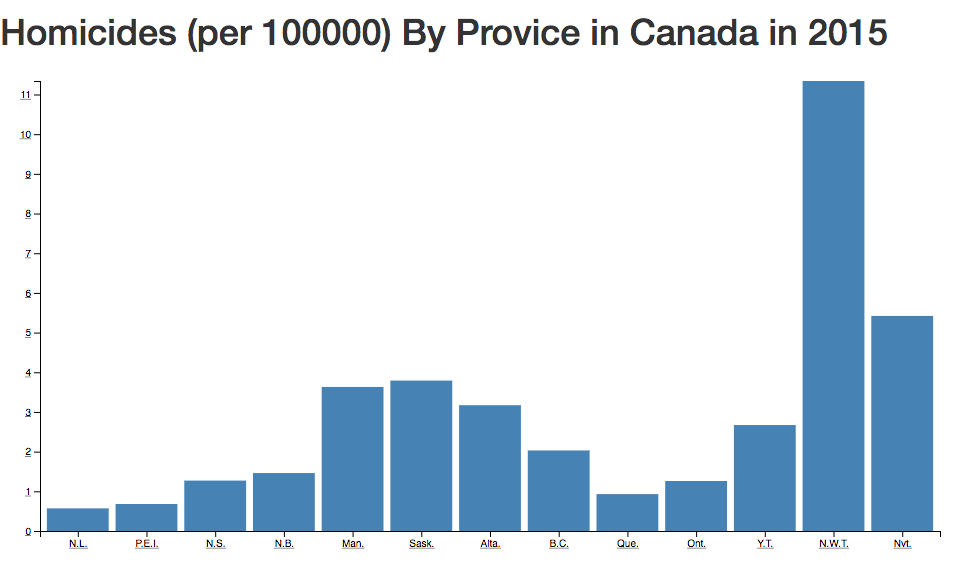
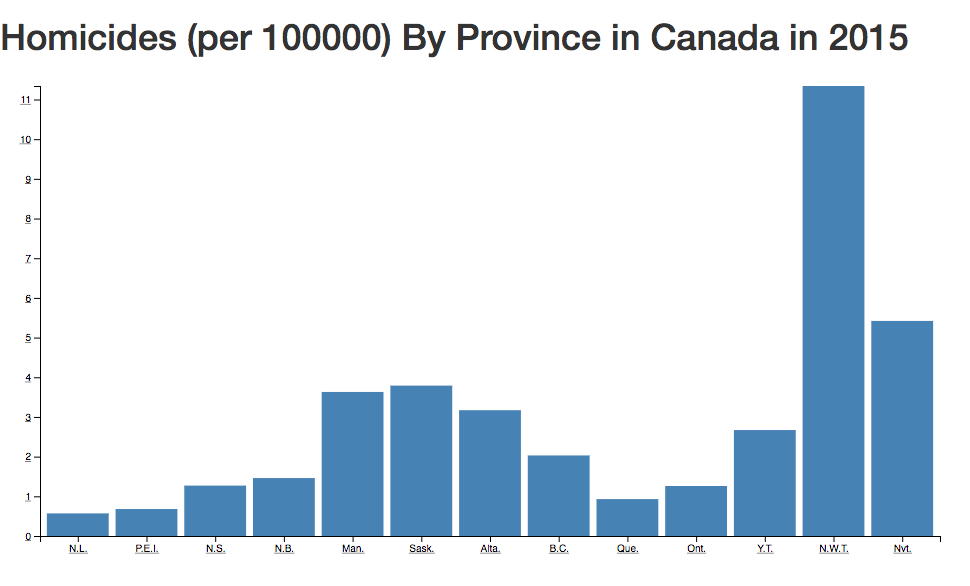
spelling error

diff --git a/main.js b/main.js
@@ -16,67 +16,67 @@ $(function(){
 
   /* For the Bar Chart */
 
-  function drawChart(){
-    // set the dimensions and margins of the graph
-    var margin = {top: 20, right: 20, bottom: 30, left: 40},
-        width = 960 - margin.left - margin.right,
-        height = 500 - margin.top - margin.bottom;
-
-    // set the ranges
-    var x = d3.scaleBand()
-              .range([0, width])
-              .padding(0.1);
-    var y = d3.scaleLinear()
-              .range([height, 0]);
-
-    // append the svg object to the body of the page
-    // append a 'group' element to 'svg'
-    // moves the 'group' element to the top left margin
-    var svg = d3.select("body").append("svg")
-        .attr("width", width + margin.left + margin.right)
-        .attr("height", height + margin.top + margin.bottom)
-        .attr("text-anchor", "middle")
-          .style("font-size", "16px")
-          .style("text-decoration", "underline")
-          .text("Value vs Date Graph")
-      .append("g")
-        .attr("transform",
-              "translate(" + margin.left + "," + margin.top + ")");
-
-    // get the data
-    d3.csv("2015/data.csv", function(error, data) {
-      if (error) throw error;
-
-      // format the data
-      data.forEach(function(d) {
-        d.Homicides = +d.Homicides;
-      });
-
-      // Scale the range of the data in the domains
-      x.domain(data.map(function(d) { return d.Province; }));
-      y.domain([0, d3.max(data, function(d) { return d.Homicides; })]);
-
-      // append the rectangles for the bar chart
-      svg.selectAll(".bar")
-          .data(data)
-        .enter().append("rect")
-          .attr("class", "bar")
-          .attr("x", function(d) { return x(d.Province); })
-          .attr("width", x.bandwidth())
-          .attr("y", function(d) { return y(d.Homicides); })
-          .attr("height", function(d) { return height - y(d.Homicides); });
-
-      // add the x Axis
-      svg.append("g")
-          .attr("transform", "translate(0," + height + ")")
-          .call(d3.axisBottom(x));
-
-      // add the y Axis
-      svg.append("g")
-          .call(d3.axisLeft(y));
-
-    });
-  }
+  // function drawChart(){
+  //   // set the dimensions and margins of the graph
+  //   var margin = {top: 20, right: 20, bottom: 30, left: 40},
+  //       width = 960 - margin.left - margin.right,
+  //       height = 500 - margin.top - margin.bottom;
+  //
+  //   // set the ranges
+  //   var x = d3.scaleBand()
+  //             .range([0, width])
+  //             .padding(0.1);
+  //   var y = d3.scaleLinear()
+  //             .range([height, 0]);
+  //
+  //   // append the svg object to the body of the page
+  //   // append a 'group' element to 'svg'
+  //   // moves the 'group' element to the top left margin
+  //   var svg = d3.select("body").append("svg")
+  //       .attr("width", width + margin.left + margin.right)
+  //       .attr("height", height + margin.top + margin.bottom)
+  //       .attr("text-anchor", "middle")
+  //         .style("font-size", "16px")
+  //         .style("text-decoration", "underline")
+  //         .text("Value vs Date Graph")
+  //     .append("g")
+  //       .attr("transform",
+  //             "translate(" + margin.left + "," + margin.top + ")");
+  //
+  //   // get the data
+  //   d3.csv("2015/data.csv", function(error, data) {
+  //     if (error) throw error;
+  //
+  //     // format the data
+  //     data.forEach(function(d) {
+  //       d.Homicides = +d.Homicides;
+  //     });
+  //
+  //     // Scale the range of the data in the domains
+  //     x.domain(data.map(function(d) { return d.Province; }));
+  //     y.domain([0, d3.max(data, function(d) { return d.Homicides; })]);
+  //
+  //     // append the rectangles for the bar chart
+  //     svg.selectAll(".bar")
+  //         .data(data)
+  //       .enter().append("rect")
+  //         .attr("class", "bar")
+  //         .attr("x", function(d) { return x(d.Province); })
+  //         .attr("width", x.bandwidth())
+  //         .attr("y", function(d) { return y(d.Homicides); })
+  //         .attr("height", function(d) { return height - y(d.Homicides); });
+  //
+  //     // add the x Axis
+  //     svg.append("g")
+  //         .attr("transform", "translate(0," + height + ")")
+  //         .call(d3.axisBottom(x));
+  //
+  //     // add the y Axis
+  //     svg.append("g")
+  //         .call(d3.axisLeft(y));
+  //
+  //   });
+  // }
 
   /* For the pie Chart */
 
@@ -160,6 +160,6 @@ $(function(){
     });
   }
 
-  drawChart();
+  // drawChart();
   drawPiegraph();
 });

diff --git a/index.html b/index.html
@@ -11,7 +11,7 @@
 
   <body>
 
-  <h1> Homicides (per 100000) By Provice in Canada in 2015 </h1>
+  <h1> Homicides By Province in Canada in 2015 </h1>
 
   <div id="pieChart"></div>
 
@@ -19,9 +19,9 @@
 
   <script type="text/javascript" src="https://code.jquery.com/jquery-2.2.4.min.js"></script>
   <script type="text/javascript" src="https://maxcdn.bootstrapcdn.com/bootstrap/3.3.7/js/bootstrap.min.js"></script>
-  <!-- <script type="text/javascript" src="https://cdnjs.cloudflare.com/ajax/libs/d3/3.4.4/d3.min.js"></script> -->
-  <script type="text/javascript" src="https://d3js.org/d3.v4.min.js"></script>
-  <!-- <script type="text/javascript" src="d3pie.min.js"></script> -->
+  <script type="text/javascript" src="https://cdnjs.cloudflare.com/ajax/libs/d3/3.4.4/d3.min.js"></script>
+  <!-- <script type="text/javascript" src="https://d3js.org/d3.v4.min.js"></script> -->
+  <script type="text/javascript" src="d3pie.min.js"></script>
   <script type="text/javascript" src="main.js"></script>
 
 </html>
